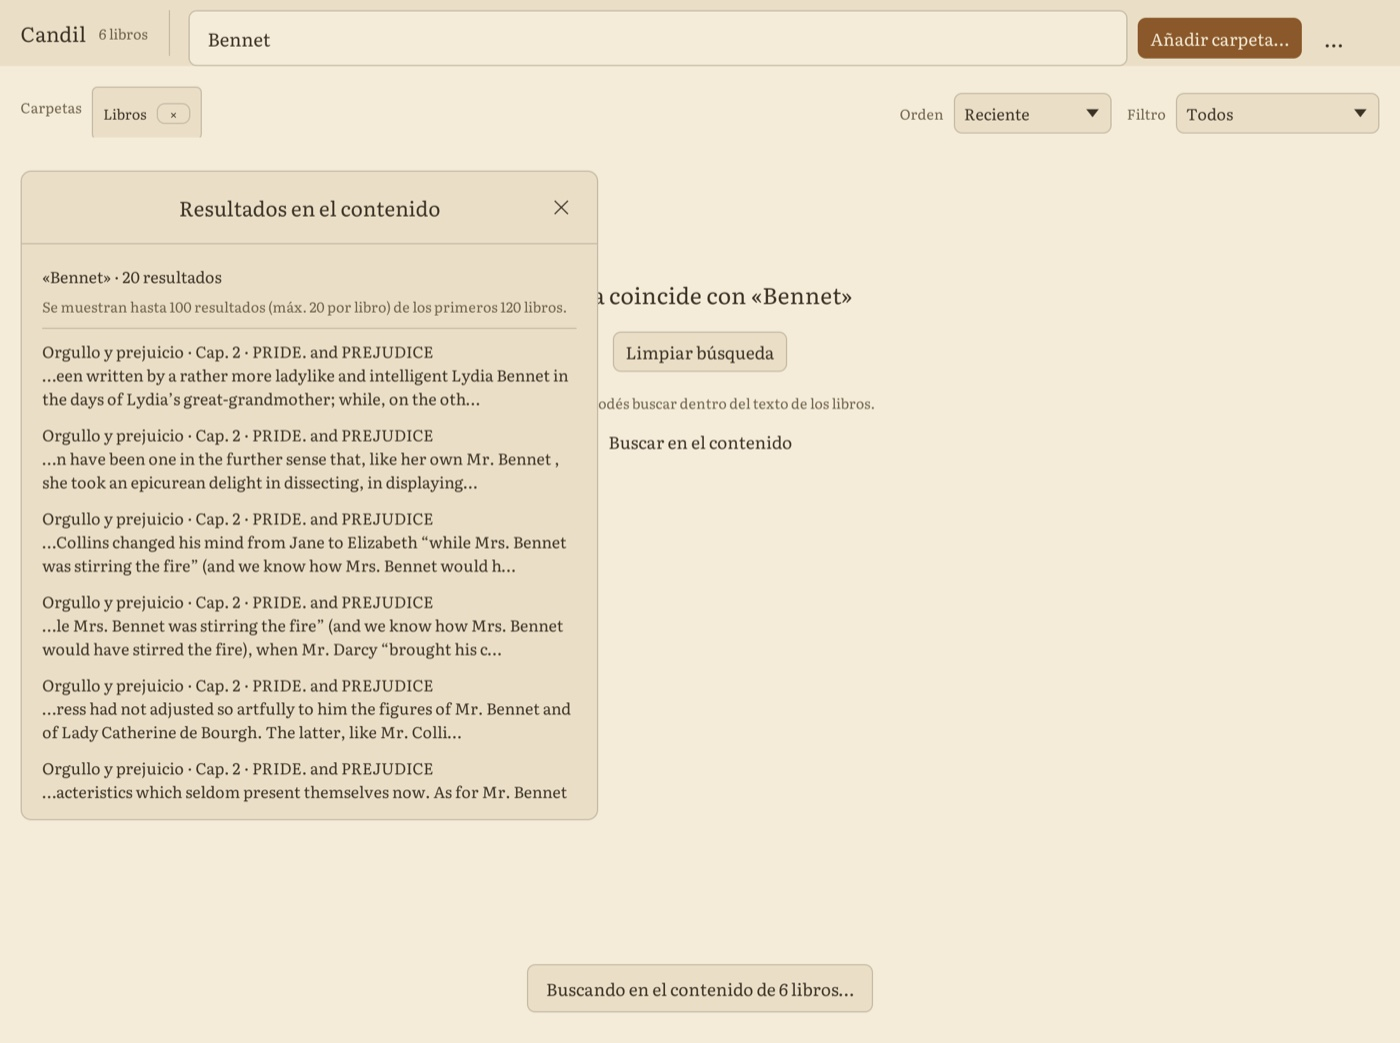
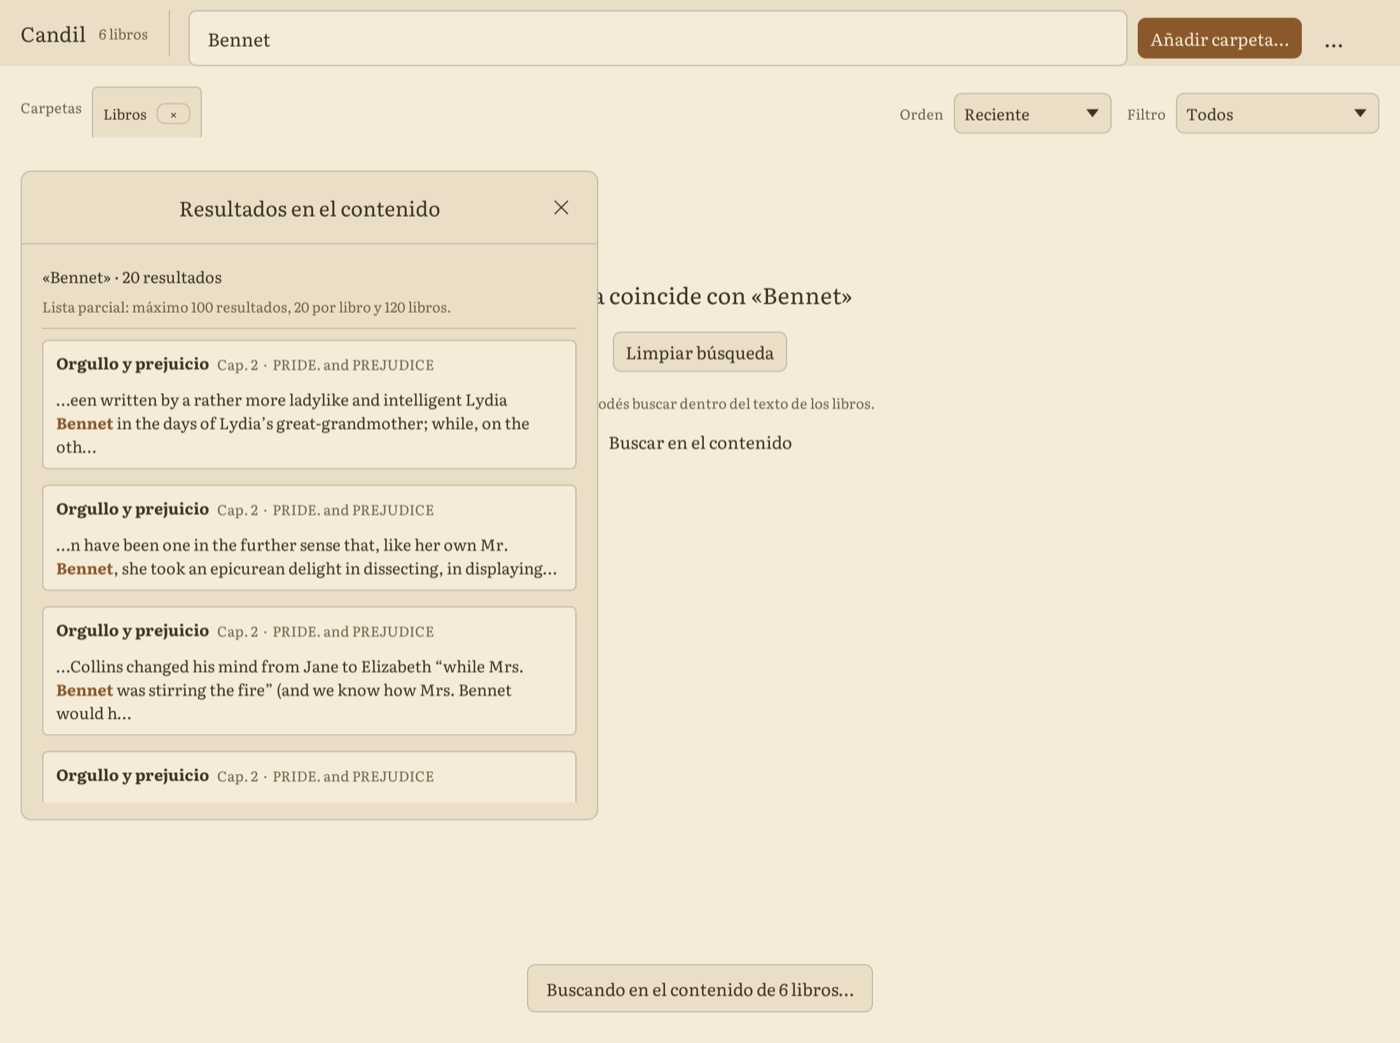
fix(biblioteca): separar y resaltar resultados de contenido

Changed region(s): [[0.0307, 0.2761, 0.3993, 0.767]]

diff --git a/src/app.rs b/src/app.rs
@@ -5177,7 +5177,7 @@ impl Lector {
             if truncated {
                 ui.label(
                     RichText::new(format!(
-                        "Se muestran hasta {CONTENT_SEARCH_MAX_HITS} resultados (máx. {CONTENT_SEARCH_PER_BOOK} por libro) de los primeros {CONTENT_SEARCH_MAX_BOOKS} libros."
+                        "Lista parcial: máximo {CONTENT_SEARCH_MAX_HITS} resultados, {CONTENT_SEARCH_PER_BOOK} por libro y {CONTENT_SEARCH_MAX_BOOKS} libros."
                     ))
                     .size(theme::text::META)
                     .color(th.dim),
@@ -5186,35 +5186,111 @@ impl Lector {
             ui.separator();
             ScrollArea::vertical().max_height(440.0).show(ui, |ui| {
                 ui.set_width(ui.available_width());
+                let body = FontId::new(theme::text::BODY_SMALL, fonts::family(false, false));
+                let body_bold = FontId::new(theme::text::BODY_SMALL, fonts::family(true, false));
+                let meta = FontId::new(theme::text::META, fonts::family(false, false));
                 for (index, hit) in hits.iter().enumerate() {
-                    ui.push_id(("content-hit", index), |ui| {
-                        let title = format!(
-                            "{} · Cap. {} · {}",
-                            truncate(&hit.book_title, 40),
-                            hit.chapter + 1,
-                            truncate(&hit.chapter_title, 40)
+                    let mut header = LayoutJob::default();
+                    header.append(
+                        &truncate(&hit.book_title, 42),
+                        0.0,
+                        TextFormat {
+                            font_id: body_bold.clone(),
+                            color: th.fg,
+                            ..Default::default()
+                        },
+                    );
+                    header.append(
+                        &format!("   Cap. {}", hit.chapter + 1),
+                        0.0,
+                        TextFormat {
+                            font_id: meta.clone(),
+                            color: th.dim,
+                            ..Default::default()
+                        },
+                    );
+                    if !hit.chapter_title.trim().is_empty() {
+                        header.append(
+                            &format!("  ·  {}", truncate(&hit.chapter_title, 44)),
+                            0.0,
+                            TextFormat {
+                                font_id: meta.clone(),
+                                color: th.dim,
+                                ..Default::default()
+                            },
                         );
-                        let snippet = format!(
-                            "{} {} {}",
-                            hit.before.trim_end(),
-                            hit.matched,
-                            hit.after.trim_start()
+                    }
+                    let mut snippet = LayoutJob::default();
+                    snippet.append(
+                        &hit.before,
+                        0.0,
+                        TextFormat {
+                            font_id: body.clone(),
+                            color: th.fg,
+                            ..Default::default()
+                        },
+                    );
+                    snippet.append(
+                        &hit.matched,
+                        0.0,
+                        TextFormat {
+                            font_id: body_bold.clone(),
+                            color: th.accent,
+                            ..Default::default()
+                        },
+                    );
+                    snippet.append(
+                        &hit.after,
+                        0.0,
+                        TextFormat {
+                            font_id: body.clone(),
+                            color: th.fg,
+                            ..Default::default()
+                        },
+                    );
+
+                    let card = egui::Frame::new()
+                        .fill(th.bg)
+                        .stroke(Stroke::new(1.0, th.border))
+                        .corner_radius(theme::radius::SM)
+                        .inner_margin(egui::Margin::symmetric(10, 8))
+                        .show(ui, |ui| {
+                            ui.set_width(ui.available_width());
+                            ui.add(egui::Label::new(header).wrap());
+                            ui.add_space(4.0);
+                            ui.add(egui::Label::new(snippet).wrap());
+                        });
+                    let rect = card.response.rect;
+                    let id = ui.make_persistent_id(("content-hit", index));
+                    let mut response = ui.interact(rect, id, Sense::click());
+                    if response.has_focus() {
+                        ui.painter().rect_stroke(
+                            rect.expand(2.0),
+                            theme::radius::SM + 1.0,
+                            Stroke::new(2.0, th.accent),
+                            egui::StrokeKind::Inside,
                         );
-                        let response = ui.add(
-                            egui::Button::new(
-                                RichText::new(format!("{title}\n{}", truncate(&snippet, 180)))
-                                    .size(theme::text::BODY_SMALL)
-                                    .color(th.fg),
-                            )
-                            .frame(false)
-                            .wrap()
-                            .min_size(Vec2::new(ui.available_width(), 0.0)),
+                    } else if response.hovered() {
+                        ui.painter().rect_stroke(
+                            rect.expand(1.0),
+                            theme::radius::SM + 1.0,
+                            Stroke::new(1.0, th.accent.gamma_multiply(0.55)),
+                            egui::StrokeKind::Inside,
                         );
-                        if response.clicked() {
-                            jump = Some(hit.clone());
-                        }
-                    });
-                    ui.add_space(theme::space::XS);
+                    }
+                    let activated = response.clicked()
+                        || (response.has_focus()
+                            && ui.input(|i| {
+                                i.key_pressed(Key::Enter) || i.key_pressed(Key::Space)
+                            }));
+                    if activated {
+                        jump = Some(hit.clone());
+                    }
+                    response = response
+                        .on_hover_cursor(egui::CursorIcon::PointingHand)
+                        .on_hover_text("Abrir en el libro");
+                    let _ = response;
+                    ui.add_space(6.0);
                 }
             });
         });

diff --git a/docs/HANDOFF.md b/docs/HANDOFF.md
@@ -106,7 +106,7 @@ el mismo):
 | `covers/` | 4,2 MB (~98 KB/libro) | `du -sh` |
 | tests | 152 unit (151 + 1 live ignorado) + 10 integración | `cargo test` |
 | clippy | 0 warnings | `cargo clippy --all-targets -- -D warnings` |
-| binario `dist` | 7.434.160 B arm64; 8.433.248 B Intel | `cargo build --profile dist` (2026-11-10) |
+| binario `dist` | 7.434.176 B arm64; Intel pendiente de medir | `cargo build --profile dist` (2026-11-10) |
 | `target/` completo | ~1,4 GB (dev 836 MB + fast 589 MB) | `du -sh target` (2026-11-10) |
 | cambio de una línea | ~16 s | `cargo build --profile fast` (sin incremental) |
 | fixtures | `mini.epub` 2.517 B; `edge.epub` 1.854 B; `notes.epub` 2.183 B | `scripts/make_fixture.py` |

diff --git a/README.md b/README.md
@@ -19,7 +19,7 @@ metadatos/portada del EPUB, actualizaciones asistidas, respaldo/restauración
 local de datos y enlaces externos con confirmación. Al iniciar, Candil retoma el
 último libro por defecto; se puede cambiar a biblioteca desde Configuración.
 
-Binario final (`dist`): **7.1 MiB** (7.434.160 B), arranque instantáneo, sin
+Binario final (`dist`): **7.1 MiB** (7.434.176 B), arranque instantáneo, sin
 webview ni motor HTML.
 
 ## Documentación
